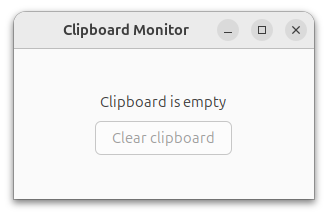
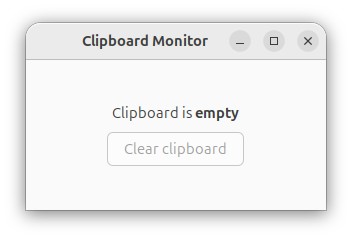
Add files via upload

diff --git a/opencode/clipboard/clipboard_monitor.py b/opencode/clipboard/clipboard_monitor.py
@@ -1,13 +1,12 @@
 #!/usr/bin/env python3
 # Author: opencode (opencode.ai), Date: 2026-04-19, Version: big-pickle
-# Usage: Run with: python3 ./clipboard_monitor.py (requires: sudo apt install xclip python3-gi)
+# Usage: python3 ./clipboard_monitor.py (requires: apt install xclip python3-gi)
 
 import subprocess
 import threading
 import time
 import sys
 import warnings
-import os
 
 warnings.filterwarnings('ignore', category=DeprecationWarning)
 
@@ -17,26 +16,20 @@ def check_command(cmd):
     return True
   except FileNotFoundError:
     return False
-  except Exception:
-    return True
-
-def install_package(pkg):
-  try:
-    result = subprocess.run(
-      ['pkexec', 'apt', 'install', '-y', pkg],
-      capture_output=True, text=True, timeout=120
-    )
-    return result.returncode == 0
-  except Exception:
-    return False
 
 def show_error(msg):
-  err = Gtk.MessageDialog(
-    None, 0,
-    Gtk.MessageType.ERROR, Gtk.ButtonsType.OK,
-    msg
-  )
-  err.run()
+  try:
+    err = Gtk.MessageDialog(
+      None, 0,
+      Gtk.MessageType.ERROR, Gtk.ButtonsType.OK,
+      msg
+    )
+    for child in err.get_message_area().get_children():
+      if isinstance(child, Gtk.Label):
+        child.set_selectable(True)
+    err.run()
+  except NameError:
+    print(f"Error: {msg}", file=sys.stderr)
   sys.exit(1)
 
 try:
@@ -46,65 +39,8 @@ try:
 except ImportError:
   show_error("python3-gi is required but could not be imported.")
 
-missing = []
 if not check_command(['xclip', '-selection', 'clipboard', '-o']):
-  missing.append('xclip')
-if not check_command(['python3', '-c', 'import gi']):
-  missing.append('python3-gi')
-
-if missing:
-  class InstallDialog(Gtk.Window):
-    def __init__(self, pkgs):
-      super().__init__(title="Missing Dependencies")
-      self.set_resizable(False)
-      self.set_default_size(350, 150)
-      self.connect("destroy", Gtk.main_quit)
-
-      box = Gtk.Box(orientation=Gtk.Orientation.VERTICAL, spacing=10)
-      box.set_margin_start(20)
-      box.set_margin_end(20)
-      box.set_margin_top(20)
-      box.set_margin_bottom(20)
-      self.add(box)
-
-      msg = "The following packages are required but not installed:"
-      box.pack_start(Gtk.Label(label=msg), True, True, 0)
-
-      pkg_label = ", ".join(pkgs)
-      box.pack_start(Gtk.Label(label=pkg_label), True, True, 0)
-
-      btn_box = Gtk.Box(spacing=10)
-      btn_box.set_halign(Gtk.Align.CENTER)
-      box.pack_start(btn_box, True, True, 0)
-
-      install_btn = Gtk.Button(label="Install Now")
-      install_btn.connect("clicked", self.on_install, pkgs)
-      btn_box.pack_start(install_btn, True, True, 0)
-
-      exit_btn = Gtk.Button(label="Exit")
-      exit_btn.connect("clicked", self.on_exit)
-      btn_box.pack_start(exit_btn, True, True, 0)
-
-    def on_install(self, widget, pkgs):
-      for pkg in pkgs:
-        if not install_package(pkg):
-          err = Gtk.MessageDialog(
-            self, Gtk.DialogFlags.DESTROY_WITH_PARENT,
-            Gtk.MessageType.ERROR, Gtk.ButtonsType.OK,
-            f"Failed to install {pkg}. Please install manually:\n  sudo apt install {pkg}"
-          )
-          err.run()
-          err.destroy()
-          sys.exit(1)
-      self.destroy()
-      os.execv(sys.executable, [sys.executable, sys.argv[0]])
-
-    def on_exit(self, widget):
-      sys.exit(0)
-
-  InstallDialog(missing).show_all()
-  Gtk.main()
-  sys.exit(0)
+  show_error("xclip not found. Please install it with: sudo apt install xclip")
 
 class ClipboardMonitor(Gtk.Window):
   def __init__(self):
@@ -152,10 +88,12 @@ class ClipboardMonitor(Gtk.Window):
 
   def update_ui(self, state):
     if state == "empty":
-      self.label.set_text("Clipboard is empty")
+      self.label.set_markup("Clipboard is <b>empty</b>")
+      self.clear_button.get_style_context().remove_class(Gtk.STYLE_CLASS_SUGGESTED_ACTION)
       self.clear_button.set_sensitive(False)
     else:
-      self.label.set_text("Clipboard has content")
+      self.label.set_markup("<b><big>Clipboard has content</big></b>")
+      self.clear_button.get_style_context().add_class(Gtk.STYLE_CLASS_SUGGESTED_ACTION)
       self.clear_button.set_sensitive(True)
 
   def on_clear_clicked(self, widget):
@@ -179,12 +117,6 @@ class ClipboardMonitor(Gtk.Window):
       self.check_clipboard()
 
 def main():
-  try:
-    subprocess.run(['xclip', '-selection', 'clipboard', '-o'],
-                 capture_output=True, timeout=2)
-  except FileNotFoundError:
-    show_error("xclip not found. Please install it with: sudo apt install xclip")
-
   win = ClipboardMonitor()
   win.show_all()
   Gtk.main()
